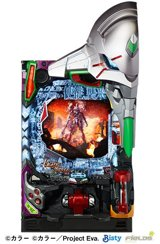
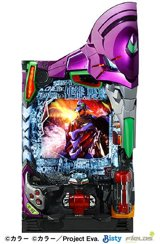
パチンコ: エヴァ15を通常版(未来への咆哮)に差し替え・沖縄6画像

diff --git a/pachinko/index.html b/pachinko/index.html
@@ -38,8 +38,8 @@ const MACHINES=[
   cond:'残保留あり',src:'https://pachinko-spec.info/spec/103492/'},
  {id:'tg_w',name:'e東京喰種',sub:'ビスティ / ライトミドル・e東京喰種W',intro:'2025年4月21日',first:199.9,total:9.34,r1:140,R:[2, 10],cond:'通常条件（残保留ありの記載なし）',
   src:'https://pachinko-spec.info/spec/154750/'},
- {id:'eva15f',name:'P新世紀エヴァンゲリオン15 未来への咆哮 SPECIAL EDITION',sub:'ビスティ / ライトミドル・未来への咆哮F',intro:'2023年9月19日',first:199.1,total:6.67,r1:100,R:[3, 10],cond:'通常条件（残保留ありの記載なし）',
-  src:'https://pachinko-spec.info/spec/129716/'},
+ {id:'eva15f',name:'P新世紀エヴァンゲリオン15 未来への咆哮',sub:'ビスティ / ハイミドル・P新世紀エヴァンゲリオン15 未来への咆哮',intro:'2021年12月20日',first:319.6,total:9.30,r1:140,R:[3,10],cond:'残保留あり',
+  src:'https://pachinko-spec.info/spec/26418/'},
  {id:'umi5sp',name:'P大海物語5スペシャル',sub:'三洋物産 / ハイミドル・ALTA',intro:'2024年11月5日',first:319.7,total:9.68,r1:140,R:[10],cond:'遊タイムあり・残保留あり',
   src:'https://pachinko-spec.info/spec/146187/'},
  {id:'oki5ltv',name:'Pスーパー海物語IN沖縄5',sub:'三洋物産 / ハイミドル・LTV',intro:'2021年7月5日',first:319.8,total:9.71,r1:137.56,R:[2, 10],cond:'残保留あり',
